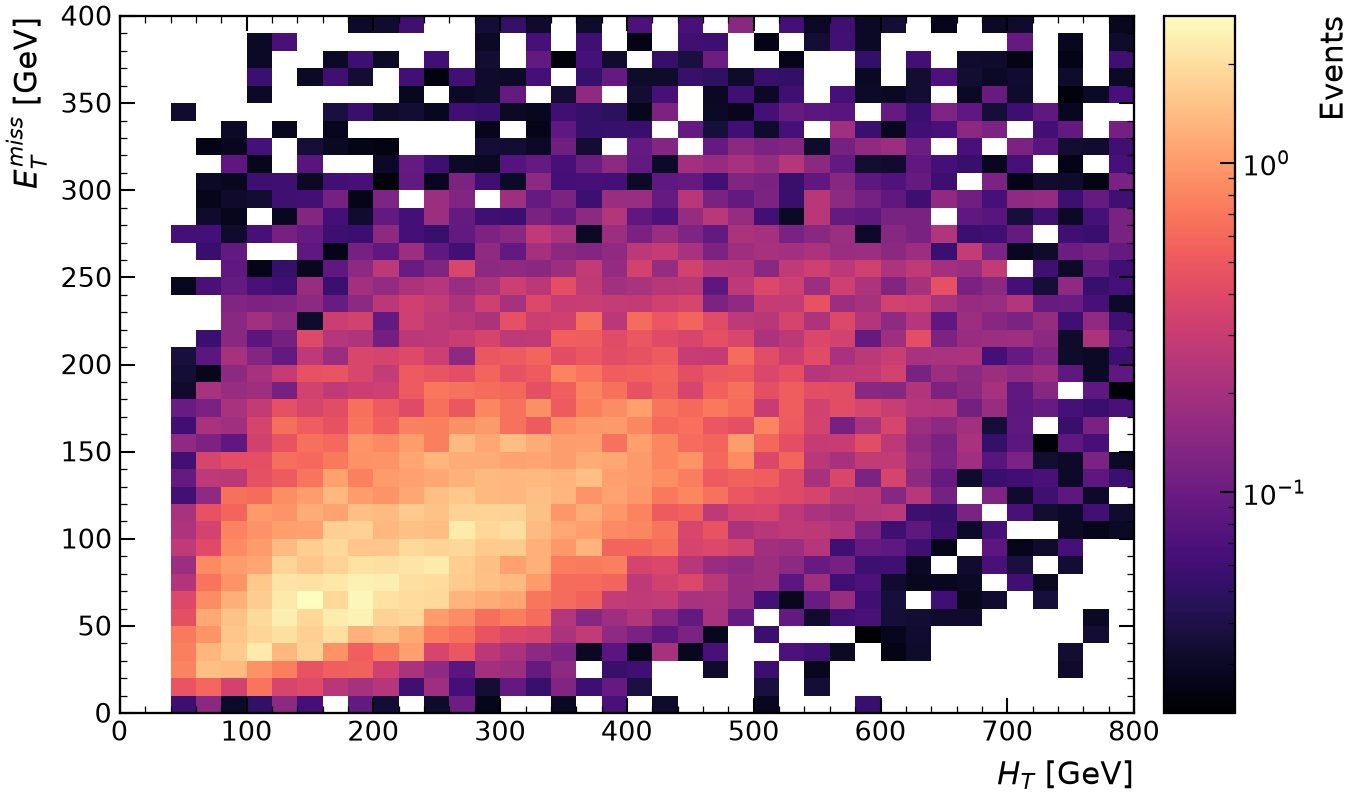
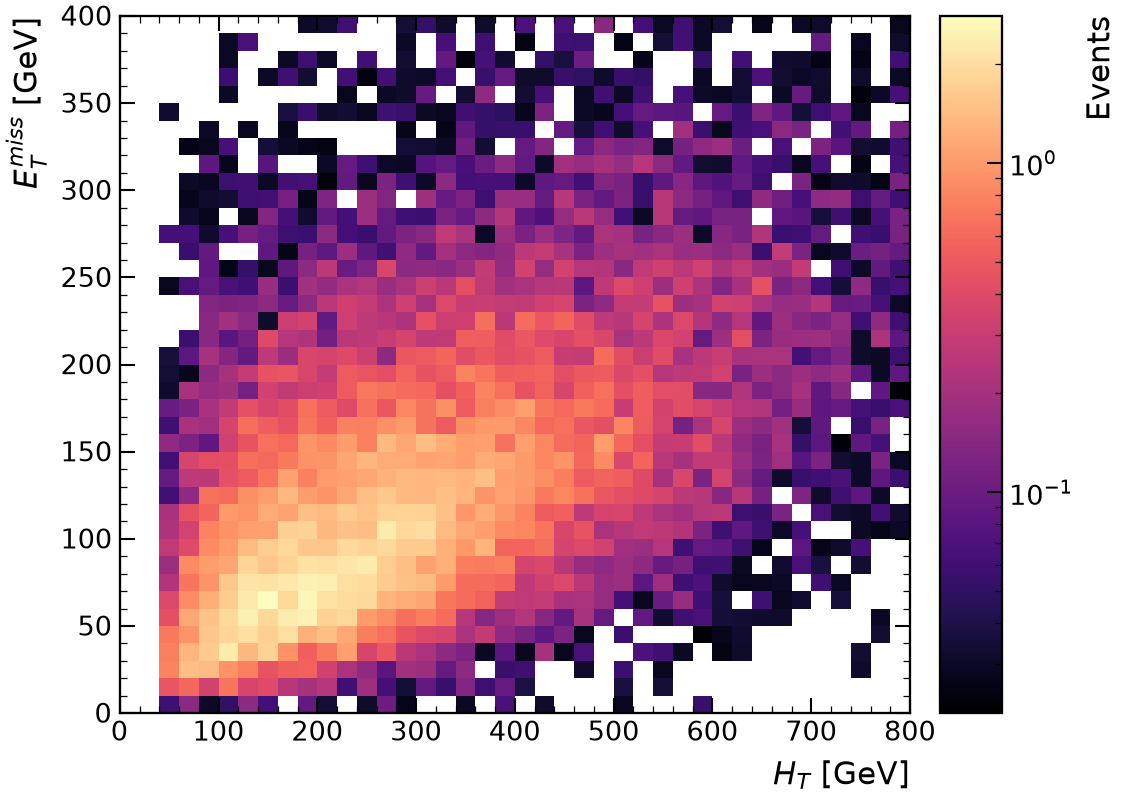
Give 2D plots the same figure size as 1D plots

diff --git a/tests/test_api.py b/tests/test_api.py
@@ -585,6 +585,18 @@ class TestPlot2D:
         with pytest.raises(SelectionError, match="different structures"):
             rf.plot2d(signal_file, "MET", "Muon_pt", tree="events")
 
+    def test_same_canvas_as_1d(self, signal_file: Path) -> None:
+        # The colour bar must not widen the figure (rootfig's factor or mplhep's cbarextend).
+        p1 = rf.plot(signal_file, "MET", tree="events")
+        p2 = rf.plot2d(signal_file, "MET", "nMuon", tree="events")
+        np.testing.assert_allclose(p2.fig.get_size_inches(), p1.fig.get_size_inches())
+        p2.fig.canvas.draw()  # the colour bar's space is only taken from the axes when drawn
+        assert p2.ax.get_position().width < p1.ax.get_position().width
+        # figsize wins over the style's size
+        wide = rf.Style(figsize=(9, 3))
+        p3 = rf.plot2d(signal_file, "MET", "nMuon", tree="events", style=wide, figsize=(4, 5))
+        np.testing.assert_allclose(p3.fig.get_size_inches(), (4, 5))
+
 
 class TestSummaryAndCorrelation:
     def test_summarize(

diff --git a/src/rootfig/api.py b/src/rootfig/api.py
@@ -14,7 +14,6 @@ from dataclasses import dataclass
 from typing import Any
 
 import awkward as ak
-import matplotlib.pyplot as plt
 import numpy as np
 
 from rootfig._typing import FloatArray, Hist
@@ -711,11 +710,9 @@ def plot2d(
         histogram_ = _normalize_for_plot(histogram_, normalize)
     resolved_style = _style_for(style, text, lumi)
     with style_context(resolved_style) as st:
-        default_size = st.figsize or figsize
-        if default_size is None:
-            width, height = plt.rcParams["figure.figsize"]
-            default_size = (width * 1.15, height)
-        layout = make_figure(st, ratio=False, ax=ax, figsize=default_size)
+        # Same canvas as a 1D plot; the colour bar takes its space from the main axes
+        # (draw_hist2d stops mplhep from widening the figure).
+        layout = make_figure(st, ratio=False, ax=ax, figsize=figsize or st.figsize)
         fig, main_ax = layout.fig, layout.main
         draw_hist2d(
             histogram_,

diff --git a/src/rootfig/plotting/hist2d.py b/src/rootfig/plotting/hist2d.py
@@ -49,6 +49,9 @@ def draw_hist2d(
         populated = (values != 0) | (histogram.variances() > 0)
         if populated.any() and not populated.all():
             kwargs["mask"] = populated
+    # mplhep would otherwise widen a single-axes figure to fit the colour bar, so a 2D
+    # plot would not have the same canvas as a 1D one; take the space from the axes.
+    kwargs.setdefault("cbarextend", False)
     artists = hep.hist2dplot(histogram.hist, ax=ax, cmap=cmap, cbar=colorbar, flow=flow, **kwargs)
     if colorbar and zlabel is not None:
         cbar = getattr(artists, "cbar", None)

diff --git a/docs/plotting.md b/docs/plotting.md
@@ -126,6 +126,8 @@ rf.correlation(sample, ["MET", "nJet", "HT"], selection="nJet >= 2", percent=Tru
 `rf.plot2d` options: `logz`, `logx`, `logy`, `cmap` (any matplotlib colour
 map, default `viridis`), `colorbar=False`, `zlabel` (default `Events` or the
 normalisation), `normalize`, `title`, `text`, `style`, `figsize`, `ax`, `save`.
+The figure has the same size as a 1D plot; the colour bar takes its space from
+the axes.
 
 `rf.correlation` options: `labels` (tick labels, default the variable labels),
 `percent=True` (integer percentages instead of two-decimal coefficients),

diff --git a/CHANGELOG.md b/CHANGELOG.md
@@ -7,6 +7,12 @@ change in minor releases, with deprecation warnings where practical.
 
 ## [Unreleased]
 
+### Fixed
+
+- `rf.plot2d` figures have the same canvas as 1D plots: the colour bar takes its
+  space from the axes instead of widening the figure twice (rootfig's 15 % plus
+  mplhep's `cbarextend`). A user `figsize` now takes precedence over the style's.
+
 ## [0.1.0] - 2026-09-11
 
 First release.
